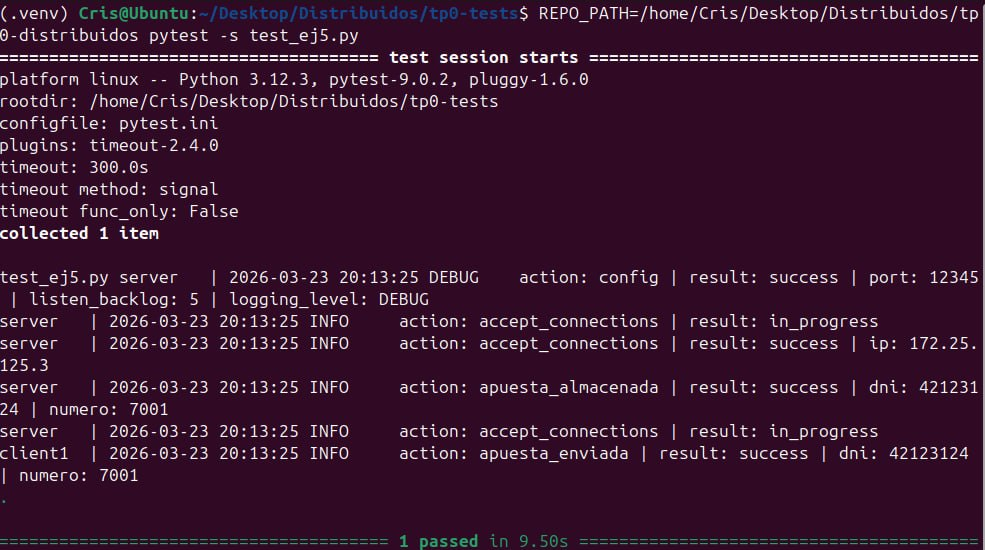
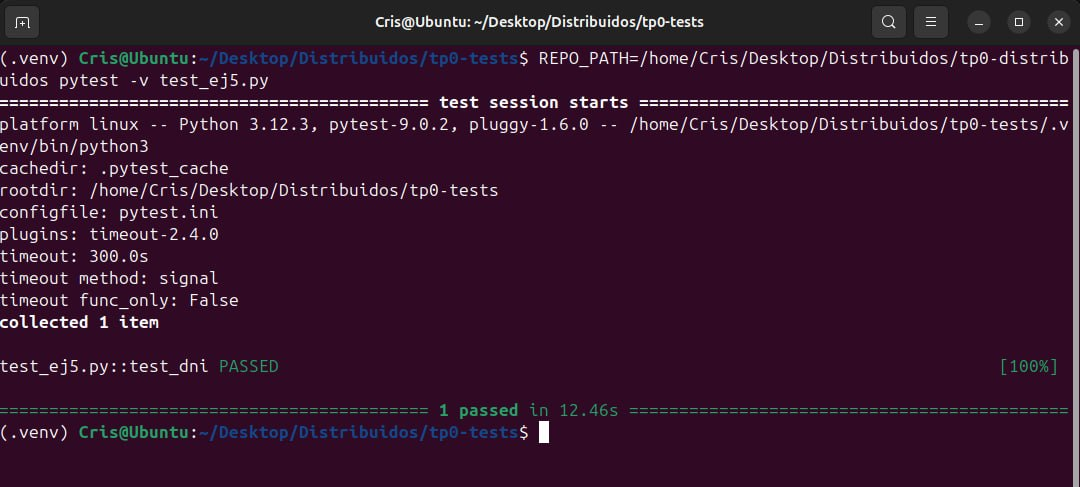
add: add readme with the documentation of the solution implemented

diff --git a/README.md b/README.md
@@ -1,138 +1,92 @@
 # TP0: Docker + Comunicaciones + Concurrencia
 
-En el presente repositorio se provee un esqueleto básico de cliente/servidor, en donde todas las dependencias del mismo se encuentran encapsuladas en containers. Los alumnos deberán resolver una guía de ejercicios incrementales, teniendo en cuenta las condiciones de entrega descritas al final de este enunciado.
-
- El cliente (Golang) y el servidor (Python) fueron desarrollados en diferentes lenguajes simplemente para mostrar cómo dos lenguajes de programación pueden convivir en el mismo proyecto con la ayuda de containers, en este caso utilizando [Docker Compose](https://docs.docker.com/compose/).
-
-## Instrucciones de uso
-El repositorio cuenta con un **Makefile** que incluye distintos comandos en forma de targets. Los targets se ejecutan mediante la invocación de:  **make \<target\>**. Los target imprescindibles para iniciar y detener el sistema son **docker-compose-up** y **docker-compose-down**, siendo los restantes targets de utilidad para el proceso de depuración.
-
-Los targets disponibles son:
-
-| target  | accion  |
-|---|---|
-|  `docker-compose-up`  | Inicializa el ambiente de desarrollo. Construye las imágenes del cliente y el servidor, inicializa los recursos a utilizar (volúmenes, redes, etc) e inicia los propios containers. |
-| `docker-compose-down`  | Ejecuta `docker-compose stop` para detener los containers asociados al compose y luego  `docker-compose down` para destruir todos los recursos asociados al proyecto que fueron inicializados. Se recomienda ejecutar este comando al finalizar cada ejecución para evitar que el disco de la máquina host se llene de versiones de desarrollo y recursos sin liberar. |
-|  `docker-compose-logs` | Permite ver los logs actuales del proyecto. Acompañar con `grep` para lograr ver mensajes de una aplicación específica dentro del compose. |
-| `docker-image`  | Construye las imágenes a ser utilizadas tanto en el servidor como en el cliente. Este target es utilizado por **docker-compose-up**, por lo cual se lo puede utilizar para probar nuevos cambios en las imágenes antes de arrancar el proyecto. |
-| `build` | Compila la aplicación cliente para ejecución en el _host_ en lugar de en Docker. De este modo la compilación es mucho más veloz, pero requiere contar con todo el entorno de Golang y Python instalados en la máquina _host_. |
-
-### Servidor
-
-Se trata de un "echo server", en donde los mensajes recibidos por el cliente se responden inmediatamente y sin alterar. 
-
-Se ejecutan en bucle las siguientes etapas:
-
-1. Servidor acepta una nueva conexión.
-2. Servidor recibe mensaje del cliente y procede a responder el mismo.
-3. Servidor desconecta al cliente.
-4. Servidor retorna al paso 1.
-
-
-### Cliente
- se conecta reiteradas veces al servidor y envía mensajes de la siguiente forma:
- 
-1. Cliente se conecta al servidor.
-2. Cliente genera mensaje incremental.
-3. Cliente envía mensaje al servidor y espera mensaje de respuesta.
-4. Servidor responde al mensaje.
-5. Servidor desconecta al cliente.
-6. Cliente verifica si aún debe enviar un mensaje y si es así, vuelve al paso 2.
-
-### Ejemplo
-
-Al ejecutar el comando `make docker-compose-up`  y luego  `make docker-compose-logs`, se observan los siguientes logs:
-
-```
-client1  | 2024-08-21 22:11:15 INFO     action: config | result: success | client_id: 1 | server_address: server:12345 | loop_amount: 5 | loop_period: 5s | log_level: DEBUG
-client1  | 2024-08-21 22:11:15 INFO     action: receive_message | result: success | client_id: 1 | msg: [CLIENT 1] Message N°1
-server   | 2024-08-21 22:11:14 DEBUG    action: config | result: success | port: 12345 | listen_backlog: 5 | logging_level: DEBUG
-server   | 2024-08-21 22:11:14 INFO     action: accept_connections | result: in_progress
-server   | 2024-08-21 22:11:15 INFO     action: accept_connections | result: success | ip: 172.25.125.3
-server   | 2024-08-21 22:11:15 INFO     action: receive_message | result: success | ip: 172.25.125.3 | msg: [CLIENT 1] Message N°1
-server   | 2024-08-21 22:11:15 INFO     action: accept_connections | result: in_progress
-server   | 2024-08-21 22:11:20 INFO     action: accept_connections | result: success | ip: 172.25.125.3
-server   | 2024-08-21 22:11:20 INFO     action: receive_message | result: success | ip: 172.25.125.3 | msg: [CLIENT 1] Message N°2
-server   | 2024-08-21 22:11:20 INFO     action: accept_connections | result: in_progress
-client1  | 2024-08-21 22:11:20 INFO     action: receive_message | result: success | client_id: 1 | msg: [CLIENT 1] Message N°2
-server   | 2024-08-21 22:11:25 INFO     action: accept_connections | result: success | ip: 172.25.125.3
-server   | 2024-08-21 22:11:25 INFO     action: receive_message | result: success | ip: 172.25.125.3 | msg: [CLIENT 1] Message N°3
-client1  | 2024-08-21 22:11:25 INFO     action: receive_message | result: success | client_id: 1 | msg: [CLIENT 1] Message N°3
-server   | 2024-08-21 22:11:25 INFO     action: accept_connections | result: in_progress
-server   | 2024-08-21 22:11:30 INFO     action: accept_connections | result: success | ip: 172.25.125.3
-server   | 2024-08-21 22:11:30 INFO     action: receive_message | result: success | ip: 172.25.125.3 | msg: [CLIENT 1] Message N°4
-server   | 2024-08-21 22:11:30 INFO     action: accept_connections | result: in_progress
-client1  | 2024-08-21 22:11:30 INFO     action: receive_message | result: success | client_id: 1 | msg: [CLIENT 1] Message N°4
-server   | 2024-08-21 22:11:35 INFO     action: accept_connections | result: success | ip: 172.25.125.3
-server   | 2024-08-21 22:11:35 INFO     action: receive_message | result: success | ip: 172.25.125.3 | msg: [CLIENT 1] Message N°5
-client1  | 2024-08-21 22:11:35 INFO     action: receive_message | result: success | client_id: 1 | msg: [CLIENT 1] Message N°5
-server   | 2024-08-21 22:11:35 INFO     action: accept_connections | result: in_progress
-client1  | 2024-08-21 22:11:40 INFO     action: loop_finished | result: success | client_id: 1
-client1 exited with code 0
-```
-
+Cristian Martin Lin - 107825
 
 ## Parte 1: Introducción a Docker
-En esta primera parte del trabajo práctico se plantean una serie de ejercicios que sirven para introducir las herramientas básicas de Docker que se utilizarán a lo largo de la materia. El entendimiento de las mismas será crucial para el desarrollo de los próximos TPs.
 
 ### Ejercicio N°1:
-Definir un script de bash `generar-compose.sh` que permita crear una definición de Docker Compose con una cantidad configurable de clientes.  El nombre de los containers deberá seguir el formato propuesto: client1, client2, client3, etc. 
+Se implementó el script `generar-compose.sh` en la raíz del proyecto para generar un archivo Docker Compose con una cantidad configurable de clientes.
 
-El script deberá ubicarse en la raíz del proyecto y recibirá por parámetro el nombre del archivo de salida y la cantidad de clientes esperados:
+**Ejecución:**
+```bash
+./generar-compose.sh <arhcivo_salida> N
 
-`./generar-compose.sh docker-compose-dev.yaml 5`
-
-Considerar que en el contenido del script pueden invocar un subscript de Go o Python:
-
-```
-#!/bin/bash
-echo "Nombre del archivo de salida: $1"
-echo "Cantidad de clientes: $2"
-python3 mi-generador.py $1 $2
+# Ejemplo
+./generar-compose.sh docker-compose-dev.yaml 5
 ```
 
-En el archivo de Docker Compose de salida se pueden definir volúmenes, variables de entorno y redes con libertad, pero recordar actualizar este script cuando se modifiquen tales definiciones en los sucesivos ejercicios.
+Luego, se puede levantar el entorno con:
+```bash
+make docker-compose-up
+```
 
 ### Ejercicio N°2:
-Modificar el cliente y el servidor para lograr que realizar cambios en el archivo de configuración no requiera reconstruír las imágenes de Docker para que los mismos sean efectivos. La configuración a través del archivo correspondiente (`config.ini` y `config.yaml`, dependiendo de la aplicación) debe ser inyectada en el container y persistida por fuera de la imagen (hint: `docker volumes`).
+Para evitar tener que reconstruir las imágenes al modificar la configuración, se inyectaron los archivos de config como volúmenes dentro de los containers:
 
+- Servidor: se monta `./server/config.ini` en `/config.ini`
+- Cliente(s): se monta `./client/config.yaml` en `/config.yaml`
+
+De esta forma, cualquier cambio en los archivos `config.ini` / `config.yaml` impacta directamente al ejecutar el contenedor, ya que los archivos quedan persistidos por fuera de la imagen. Se levanta de la misma manera que el ejercicio 1.
 
 ### Ejercicio N°3:
-Crear un script de bash `validar-echo-server.sh` que permita verificar el correcto funcionamiento del servidor utilizando el comando `netcat` para interactuar con el mismo. Dado que el servidor es un echo server, se debe enviar un mensaje al servidor y esperar recibir el mismo mensaje enviado.
+Se implementó el script `validar-echo-server.sh` para verificar el correcto funcionamiento del servidor (echo server) usando `netcat`, sin instalarlo en la máquina host y sin exponer puertos.
 
-En caso de que la validación sea exitosa imprimir: `action: test_echo_server | result: success`, de lo contrario imprimir:`action: test_echo_server | result: fail`.
+**Detalle de la solución:**
+- El script primero verifica que el container `server` esté corriendo.
+- Obtiene dinámicamente la red Docker a la que está conectado el servidor (vía `docker inspect`).
+- Genera un mensaje único con timestamp.
+- Levanta un contenedor efímero `alpine` conectado a esa misma red, instala `netcat` dentro del contenedor y envía el mensaje al servidor.
+- Si la respuesta coincide exactamente con el mensaje enviado imprime:
+  - `action: test_echo_server | result: success`
+  - en caso contrario: `action: test_echo_server | result: fail`
 
-El script deberá ubicarse en la raíz del proyecto. Netcat no debe ser instalado en la máquina _host_ y no se pueden exponer puertos del servidor para realizar la comunicación (hint: `docker network`). `
 
+**Ejecución:**
+1. Levantar el entorno:
+```bash
+./generar-compose.sh docker-compose-dev.yaml N
+
+make docker-compose-up
+```
+
+2. Ejecutar el validador:
+```bash
+./validar-echo-server.sh
+```
 
 ### Ejercicio N°4:
-Modificar servidor y cliente para que ambos sistemas terminen de forma _graceful_ al recibir la signal SIGTERM. Terminar la aplicación de forma _graceful_ implica que todos los _file descriptors_ (entre los que se encuentran archivos, sockets, threads y procesos) deben cerrarse correctamente antes que el thread de la aplicación principal muera. Loguear mensajes en el cierre de cada recurso (hint: Verificar que hace el flag `-t` utilizado en el comando `docker compose down`).
+Se agregó manejo de la señal SIGTERM tanto en servidor como en cliente para lograr un cierre graceful, liberando correctamente los recursos (sockets) antes de terminar el proceso.
+
+- **Cliente (Go):** al recibir SIGTERM se cancela la ejecución, se corta el loop y se cierra el socket.
+- **Servidor (Python):** al recibir SIGTERM se llama a `server.stop()` para cerrar el socket de escucha y terminar el loop de `accept()`.
+
+**Cómo probar el shutdown graceful:**
+Con el entorno levantado, puede enviarse SIGTERM usando:
+```bash
+docker compose -f docker-compose-dev.yaml stop -t <segundos>
+```
 
 ## Parte 2: Repaso de Comunicaciones
 
-Las secciones de repaso del trabajo práctico plantean un caso de uso denominado **Lotería Nacional**. Para la resolución de las mismas deberá utilizarse como base el código fuente provisto en la primera parte, con las modificaciones agregadas en el ejercicio 4.
-
 ### Ejercicio N°5:
-Modificar la lógica de negocio tanto de los clientes como del servidor para nuestro nuevo caso de uso.
+Se modificó el cliente y el servidor para enviar y almacenar apuestas.
 
-#### Cliente
-Emulará a una _agencia de quiniela_ que participa del proyecto. Existen 5 agencias. Deberán recibir como variables de entorno los campos que representan la apuesta de una persona: nombre, apellido, DNI, nacimiento, numero apostado (en adelante 'número'). Ej.: `NOMBRE=Santiago Lionel`, `APELLIDO=Lorca`, `DOCUMENTO=30904465`, `NACIMIENTO=1999-03-17` y `NUMERO=7574` respectivamente.
+- **Cliente (Go):** toma la apuesta desde variables de entorno (`NOMBRE`, `APELLIDO`, `DOCUMENTO`, `NACIMIENTO`, `NUMERO` + `CLI_ID` como id de agencia), la envía al servidor y espera un ACK. Si el ACK indica éxito loguea:  
+  `action: apuesta_enviada | result: success | dni: ${DNI} | numero: ${NUMERO}`
 
-Los campos deben enviarse al servidor para dejar registro de la apuesta. Al recibir la confirmación del servidor se debe imprimir por log: `action: apuesta_enviada | result: success | dni: ${DNI} | numero: ${NUMERO}`.
+- **Servidor (Python):** recibe la apuesta, la almacena usando `store_bets(...)` (provista por la cátedra) y responde con ACK. Si persiste correctamente loguea:  
+  `action: apuesta_almacenada | result: success | dni: ${DNI} | numero: ${NUMERO}`
 
+**Protocolo / Comunicación:**
+- Se implementó un framing: `u32` big-endian con el largo del payload + `payload`.
+- `payload`:
+  - `msg_type` (1 byte)
+  - campos en orden fijo (strings con largo `u16` + bytes UTF-8, y `number` como `u32` BE)
+- La respuesta del servidor es un ACK (`msg_type` + status OK/ERROR).  
+Esto evita *short read/write* leyendo/escribiendo exactamente la cantidad de bytes indicada.
 
-
-#### Servidor
-Emulará a la _central de Lotería Nacional_. Deberá recibir los campos de la cada apuesta desde los clientes y almacenar la información mediante la función `store_bet(...)` para control futuro de ganadores. La función `store_bet(...)` es provista por la cátedra y no podrá ser modificada por el alumno.
-Al persistir se debe imprimir por log: `action: apuesta_almacenada | result: success | dni: ${DNI} | numero: ${NUMERO}`.
-
-#### Comunicación:
-Se deberá implementar un módulo de comunicación entre el cliente y el servidor donde se maneje el envío y la recepción de los paquetes, el cual se espera que contemple:
-* Definición de un protocolo para el envío de los mensajes.
-* Serialización de los datos.
-* Correcta separación de responsabilidades entre modelo de dominio y capa de comunicación.
-* Correcto empleo de sockets, incluyendo manejo de errores y evitando los fenómenos conocidos como [_short read y short write_](https://cs61.seas.harvard.edu/site/2018/FileDescriptors/).
-
+**Resultado de tests provista por la cátedra:**
+![Resultado de tests - Ejercicio 5](images/screenshot_test_ej5.jpg)`
 
 ### Ejercicio N°6:
 Modificar los clientes para que envíen varias apuestas a la vez (modalidad conocida como procesamiento por _chunks_ o _batchs_). 
